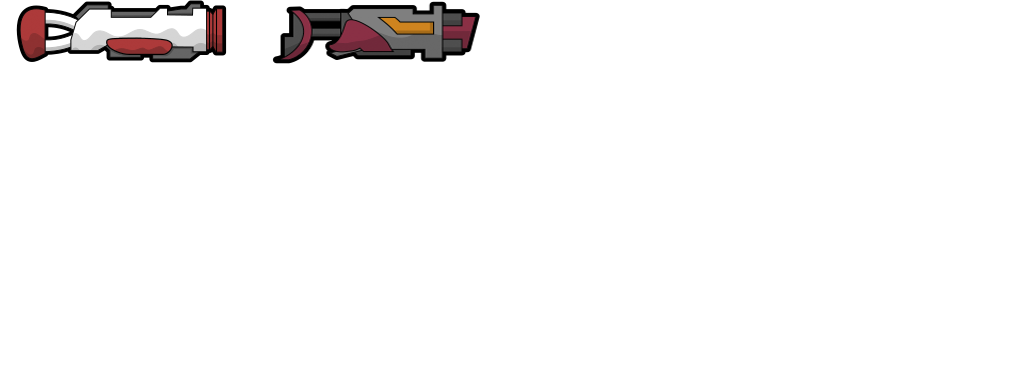
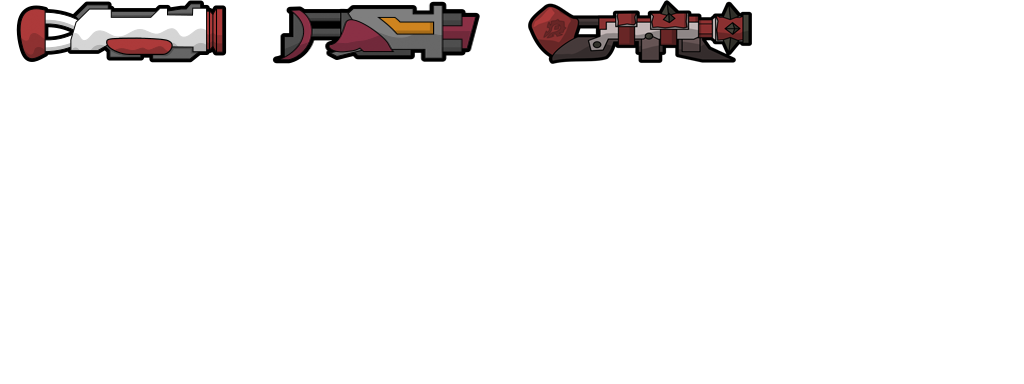
add full set and weapons "Goblin"

Changed region(s): [[0.5, 0.0, 0.75, 0.1875]]

diff --git a/datasrc/content.py b/datasrc/content.py
@@ -647,11 +647,15 @@ container.sprites.Add(Sprite("mmo_fire_magitech_grenade", set_mmogame, 2, 3, 1, 
 container.sprites.Add(Sprite("mmo_fire_heavenly_gun", set_mmogame, 3, 3, 1, 1))
 container.sprites.Add(Sprite("mmo_fire_heavenly_shotgun", set_mmogame, 4, 3, 1, 1))
 container.sprites.Add(Sprite("mmo_fire_heavenly_grenade", set_mmogame, 5, 3, 1, 1))
+container.sprites.Add(Sprite("mmo_fire_goblin_gun", set_mmogame, 6, 3, 1, 1))
+container.sprites.Add(Sprite("mmo_fire_goblin_shotgun", set_mmogame, 7, 3, 1, 1))
+container.sprites.Add(Sprite("mmo_fire_goblin_grenade", set_mmogame, 8, 3, 1, 1))
 ###############################
 
 #mmotee hammer [8 weapon] on 1 line
 container.sprites.Add(Sprite("mmo_hammer_heaven", set_mmohammer, 0, 0, 1, 1)) # +1 weapon
 container.sprites.Add(Sprite("mmo_hammer_magitech", set_mmohammer, 1, 0, 1, 1))
+container.sprites.Add(Sprite("mmo_hammer_goblin", set_mmohammer, 2, 0, 1, 1))
 
 #mmotee gun [3 weapon] on 1 line
 container.sprites.Add(Sprite("mmo_gun_heaven", set_mmogun, 0, 0, 2, 1)) # +2 weapon
@@ -660,6 +664,9 @@ container.sprites.Add(Sprite("mmo_gun_heaven_muzzle2", set_mmogun, 4, 0, 2, 1))
 container.sprites.Add(Sprite("mmo_gun_magitech", set_mmogun, 6, 0, 2, 1))
 container.sprites.Add(Sprite("mmo_gun_magitech_muzzle1", set_mmogun, 8, 0, 2, 1))
 container.sprites.Add(Sprite("mmo_gun_magitech_muzzle2", set_mmogun, 10, 0, 2, 1))
+container.sprites.Add(Sprite("mmo_gun_goblin", set_mmogun, 12, 0, 2, 1))
+container.sprites.Add(Sprite("mmo_gun_goblin_muzzle1", set_mmogun, 14, 0, 2, 1))
+container.sprites.Add(Sprite("mmo_gun_goblin_muzzle2", set_mmogun, 16, 0, 2, 1))
 
 #mmotee shotgun [2 weapon] on 1 line
 container.sprites.Add(Sprite("mmo_shotgun_heaven", set_mmoshotgun, 0, 0, 4, 1)) # +4 weapon
@@ -668,14 +675,19 @@ container.sprites.Add(Sprite("mmo_shotgun_heaven_muzzle2", set_mmoshotgun, 6, 0,
 container.sprites.Add(Sprite("mmo_shotgun_magitech", set_mmoshotgun, 8, 0, 4, 1))
 container.sprites.Add(Sprite("mmo_shotgun_magitech_muzzle1", set_mmoshotgun, 12, 0, 2, 1))
 container.sprites.Add(Sprite("mmo_shotgun_magitech_muzzle2", set_mmoshotgun, 14, 0, 2, 1))
+container.sprites.Add(Sprite("mmo_shotgun_goblin", set_mmoshotgun, 0, 1, 4, 1))
+container.sprites.Add(Sprite("mmo_shotgun_goblin_muzzle1", set_mmoshotgun, 4, 1, 2, 1))
+container.sprites.Add(Sprite("mmo_shotgun_goblin_muzzle2", set_mmoshotgun, 6, 1, 2, 1))
 
 #mmotee grenade [4 weapon] on 1 line
 container.sprites.Add(Sprite("mmo_grenade_heaven", set_mmogrenade, 0, 0, 1, 1)) # +1 weapon
 container.sprites.Add(Sprite("mmo_grenade_magitech", set_mmogrenade, 1, 0, 1, 1))
+container.sprites.Add(Sprite("mmo_grenade_goblin", set_mmogrenade, 2, 0, 1, 1))
 
 #mmotee rifle [4 weapon] on 1 line
 container.sprites.Add(Sprite("mmo_rifle_heaven", set_mmorifle, 0, 0, 1, 1)) # +1 weapon
 container.sprites.Add(Sprite("mmo_rifle_magitech", set_mmorifle, 1, 0, 1, 1))
+container.sprites.Add(Sprite("mmo_rifle_goblin", set_mmorifle, 2, 0, 1, 1))
 
 	
 ###############################################################################

diff --git a/src/game/client/components/players.cpp b/src/game/client/components/players.cpp
@@ -595,6 +595,11 @@ enum ItemList
 	itBatWings = 10016,
 	itEagleLittleWings = 10017,
 	itNecromanteWings = 10018,
+	itGoblinHammer = 10019,
+	itGoblinGun = 10020,
+	itGoblinShotgun = 10021,
+	itGoblinGrenade = 10022,
+	itGoblinRifle = 10023,
 };
 
 void CPlayers::OnInit()
@@ -614,6 +619,13 @@ void CPlayers::OnInit()
 	m_aEquipInfo.add({ itMagitechShotgun,  vec4(0.5f, 0.25f, 0.5f, 0.003f), vec2(0,0), vec2(0, 0), 0.0f, SPRITE_MMO_SHOTGUN_MAGITECH, 0 });
 	m_aEquipInfo.add({ itMagitechGrenade, vec4(0.45f, 0.3f, 0.5f, 0.003f), vec2(0,0), vec2(0, 0), 0.0f, SPRITE_MMO_GRENADE_MAGITECH, 0 });
 	m_aEquipInfo.add({ itMagitechRifle, vec4(0.3f, 0.5f, 0.5f, 0.003f), vec2(0,0), vec2(0, 0), 0.0f, SPRITE_MMO_RIFLE_MAGITECH, 0 });
+			
+	/* SET GOBLIN */
+	m_aEquipInfo.add({ itGoblinHammer, vec4(0.45f, 0.3f, 0.5f, 0.003f), vec2(0,0), vec2(100, 100), 0.0f, SPRITE_MMO_HAMMER_GOBLIN, 0 });
+	m_aEquipInfo.add({ itGoblinGun, vec4(0.3f, 0.5f, 0.5f, 0.003f), vec2(0,0), vec2(0, 0), 0.0f, SPRITE_MMO_GUN_GOBLIN, 0 });
+	m_aEquipInfo.add({ itGoblinShotgun,  vec4(0.5f, 0.25f, 0.5f, 0.003f), vec2(0,0), vec2(0, 0), 0.0f, SPRITE_MMO_SHOTGUN_GOBLIN, 0 });
+	m_aEquipInfo.add({ itGoblinGrenade, vec4(0.45f, 0.3f, 0.5f, 0.003f), vec2(0,0), vec2(0, 0), 0.0f, SPRITE_MMO_GRENADE_GOBLIN, 0 });
+	m_aEquipInfo.add({ itGoblinRifle, vec4(0.3f, 0.5f, 0.5f, 0.003f), vec2(0,0), vec2(0, 0), 0.0f, SPRITE_MMO_RIFLE_GOBLIN, 0 });
 		
 	/* WINGS */
 	m_aEquipInfo.add({ itShadowWings, vec4(1.75f, 0.0f, 0.0f, 0.003f), vec2(115, 60), vec2(200, 120), 0.0f, IMAGE_SHADOW_WINGS, ANIM_WINGS_LENGTH });
@@ -624,7 +636,7 @@ void CPlayers::OnInit()
 	m_aEquipInfo.add({ itStarsWings, vec4(0.04f, 0.0f, 0.10f, 0.003f), vec2(140, 45), vec2(280, 100), 0.3f, IMAGE_STARS_WINGS, ANIM_WINGS_STATIC });
 	m_aEquipInfo.add({ itBatWings, vec4(0.15f, 0.0f, 0.0f, 0.003f), vec2(80, 70), vec2(140, 120), 0.3f, IMAGE_BAT_WINGS, ANIM_WINGS_STATIC });
 	m_aEquipInfo.add({ itEagleLittleWings, vec4(0.1f, 0.1f, 0.1f, 0.003f), vec2(60, 50), vec2(100, 80), 0.3f, IMAGE_EAGLE_LITTLE_WINGS, ANIM_WINGS_STATIC });
-	m_aEquipInfo.add({ itNecromanteWings, vec4(0.5f, 0.1f, 0.1f, 0.01f), vec2(100, 60), vec2(180, 140), 0.3f, IMAGE_NECROMANTE_WINGS, ANIM_WINGS_STATIC });
+	m_aEquipInfo.add({ itNecromanteWings, vec4(0.5f, 0.1f, 0.1f, 0.01f), vec2(110, 60), vec2(200, 140), 0.3f, IMAGE_NECROMANTE_WINGS, ANIM_WINGS_STATIC });
 }
 
 bool CPlayers::RenderWeaponsMRPG(const CNetObj_Character Player, CAnimState* pAnim, float Angle, vec2 Position, int ClientID)
